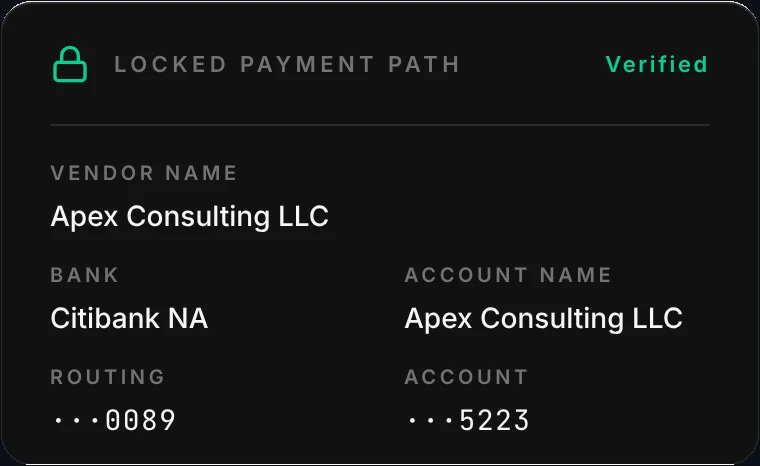
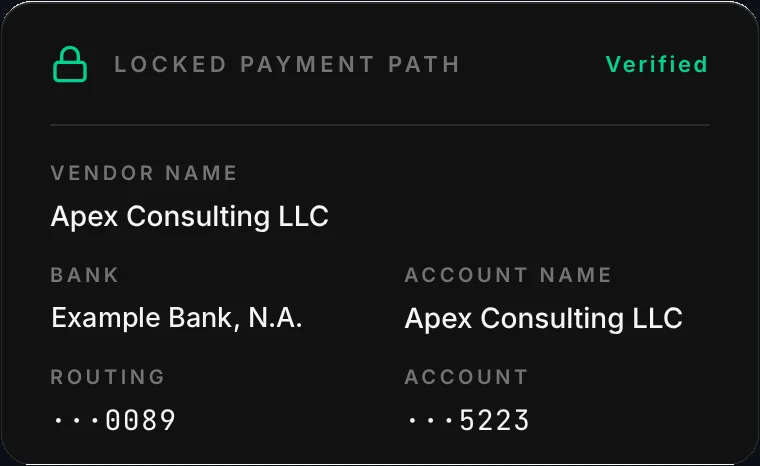
Demo pages: ICARUS intro, bench status labels, cleaned vendor screenshots
Replace the real bank name and localhost link in the vendor captures with
illustrative values, disclosed on the page. Label each bench project as a
working build, working demo or prototype, with a key. Use the full
'Vendor Onboarding & Payment Controls' name throughout.

Claude-Session: https://claude.ai/code/session_01Pz9xFmjPMPdtEf89jB7uoR

Changed region(s): [[0.0605, 0.6609, 0.3934, 0.721]]

diff --git a/site/index.html b/site/index.html
@@ -109,7 +109,7 @@
   <section id="built" class="story wrap wrap--wide reveal">
     <p class="eyebrow">04 / BUILT &amp; BUILDING</p>
     <h2 class="section-title">We'd rather show you.</h2>
-    <p class="what__sub" style="margin:-14px 0 32px;max-width:640px">Three working tools from ICARUS, the operations platform Blue Dot is building. Real software, illustrative data. Click through for the full walkthrough.</p>
+    <p class="what__sub" style="margin:-14px 0 32px;max-width:640px">Three working tools built in ICARUS, our operational software platform. Real functionality. Illustrative data.</p>
     <div class="demos">
       <a class="demo" href="work/traceable-metrics.html">
         <div class="demo__screen"><img src="work/media/card-metrics.webp" alt="An explanation of why committed costs rose $80,000, built from the source records" width="960" height="600" loading="lazy"></div>
@@ -141,9 +141,10 @@
     </div>
     <div class="bench">
       <p class="eyebrow bench__head">ALSO ON THE BENCH</p>
-      <div class="bench__row"><h3 class="bench__name">Discovery Flow</h3><p>Sorts a company's workflows by what each one actually needs: an AI assistant, plain automation, a process fix, an engineering handoff, or nothing at all.</p></div>
-      <div class="bench__row"><h3 class="bench__name">Draft-and-review assistant</h3><p>Turns messy intake notes into a first draft, quotes the notes it relied on, flags what's missing, and waits for a specialist to approve.</p></div>
-      <div class="bench__row"><h3 class="bench__name">Field capture</h3><p>Quick capture for people who aren't at a desk, reconciled against the schedule and change orders so the record matches what happened on site.</p></div>
+      <p class="bench__key"><strong>Working build:</strong> the real software in ICARUS, running on test data. <strong>Working demo:</strong> runs on its own, on sample data. <strong>Prototype:</strong> early and partial; not a finished capability.</p>
+      <div class="bench__row"><div><h3 class="bench__name">Discovery Flow</h3><p class="bench__status">WORKING DEMO</p></div><p>Sorts a company's workflows by what each one actually needs: an AI assistant, plain automation, a process fix, an engineering handoff, or nothing at all.</p></div>
+      <div class="bench__row"><div><h3 class="bench__name">Draft-and-review assistant</h3><p class="bench__status">WORKING DEMO</p></div><p>Turns messy intake notes into a first draft, quotes the notes it relied on, flags what's missing, and waits for a specialist to approve.</p></div>
+      <div class="bench__row"><div><h3 class="bench__name">Field capture</h3><p class="bench__status">PROTOTYPE</p></div><p>Quick capture for people who aren't at a desk, reconciled against the schedule and change orders so the record matches what happened on site.</p></div>
     </div>
     <div class="btn-row" style="margin-top:36px">
       <a class="btn" href="mailto:bluedottechnology@outlook.com?subject=Demo%20walkthrough">ASK FOR A WALKTHROUGH</a>

diff --git a/site/work/vendor-onboarding.html b/site/work/vendor-onboarding.html
@@ -40,8 +40,8 @@
     <ul class="work-why__list"><li><strong>Payment fraud usually arrives as a routine email.</strong> "We changed banks, please update." The defence is a phone call to a number you found yourself. This makes that call a required step, not a good habit.</li><li><strong>Setup and payment are separate gates.</strong> A new vendor can be tracked and assigned work immediately. Money is the only thing that waits.</li><li><strong>One card, everywhere.</strong> The payment details look the same wherever someone approves, and full account numbers are never shown on screen.</li></ul>
   </section>
   <div class="work-steps__head wrap wrap--wide"><h2 class="section-title">The walkthrough</h2></div>
-<p class="work-note wrap wrap--wide"><span class="work-note__tag">SYNTHETIC DATA</span> Captured from the working software running on test data only. The company, the person and the numbers are made up.</p>
-  <section class="work-steps work-steps--exhibits wrap wrap--wide" aria-label="Vendor onboarding walkthrough">
+<p class="work-note wrap wrap--wide"><span class="work-note__tag">SYNTHETIC DATA</span> Captured from the working software running on test data only. The company, the person, the bank and the numbers are made up. The bank name and the link address were edited for publication.</p>
+  <section class="work-steps work-steps--exhibits wrap wrap--wide" aria-label="Vendor Onboarding &amp; Payment Controls walkthrough">
     <figure class="exhibit reveal">
       <div class="exhibit__stage"><img src="media/vo-operator-link.webp" alt="A link, not a portal" width="380" height="119" loading="lazy"></div>
       <figcaption class="step__cap"><span class="step__no">01</span><span class="step__title">A link, not a portal</span><span class="step__text">The vendor gets a single-use link to a short form. It's shown once, works once, and refuses to open a second time. No account to set up, no password to forget.</span></figcaption>
@@ -70,7 +70,7 @@
 
   <section id="contact" class="cta">
     <p class="cta__line">Paying vendors on trust and email? Let's put a gate on it.</p>
-    <a class="btn" href="mailto:bluedottechnology@outlook.com?subject=Vendor%20onboarding%20walkthrough">ASK FOR A WALKTHROUGH</a>
+    <a class="btn" href="mailto:bluedottechnology@outlook.com?subject=Vendor%20Onboarding%20%26%20Payment%20Controls%20walkthrough">ASK FOR A WALKTHROUGH</a>
     <p class="body-text" style="text-align:center;margin:20px 0 0">Thirty minutes, on a screen share or at your office in Dallas.<br>Or write to <a href="mailto:bluedottechnology@outlook.com">bluedottechnology@outlook.com</a></p>
   </section>
 

diff --git a/site/css/site.css b/site/css/site.css
@@ -800,7 +800,10 @@ a:hover { color: var(--link-hover); }
 .bench__head { margin: 22px 0 6px; }
 .bench__row { display: grid; grid-template-columns: 220px 1fr; gap: 6px 28px; padding: 14px 0; border-bottom: 1px solid var(--rule); }
 .bench__name { font-family: var(--serif); font-size: 21px; font-weight: 600; color: var(--ink-850); margin: 0; }
-.bench__row p { margin: 0; font-size: 14.5px; line-height: 1.6; color: var(--ink-600); }
+.bench__status { font-stretch: 75%; font-size: 11px; font-weight: 700; letter-spacing: 0.2em; color: var(--ink-450); margin: 4px 0 0; }
+.bench__key { font-size: 13.5px; line-height: 1.6; color: var(--ink-500); margin: 0 0 8px; max-width: 760px; }
+.bench__key strong { color: var(--ink-750); font-weight: 600; }
+.bench__row > p { margin: 0; font-size: 14.5px; line-height: 1.6; color: var(--ink-600); }
 
 .work-head { padding-top: 84px; padding-bottom: 36px; }
 .work-head .eyebrow a { color: inherit; text-decoration: none; border-bottom: 1px solid var(--rule); }
